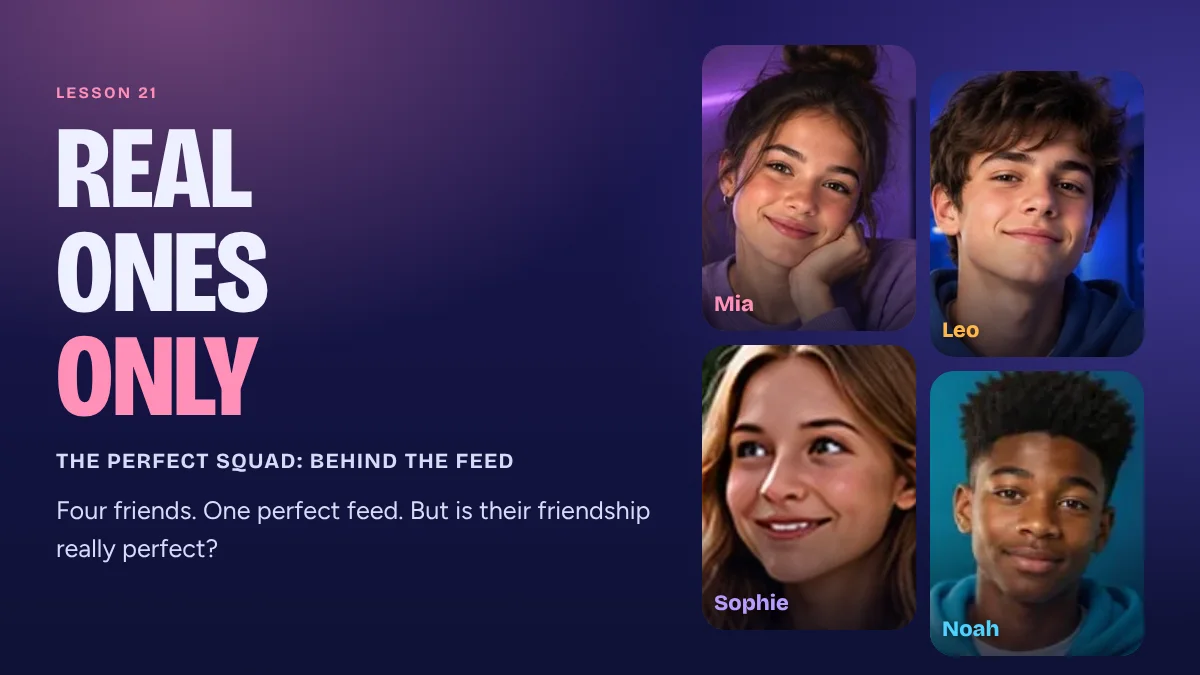
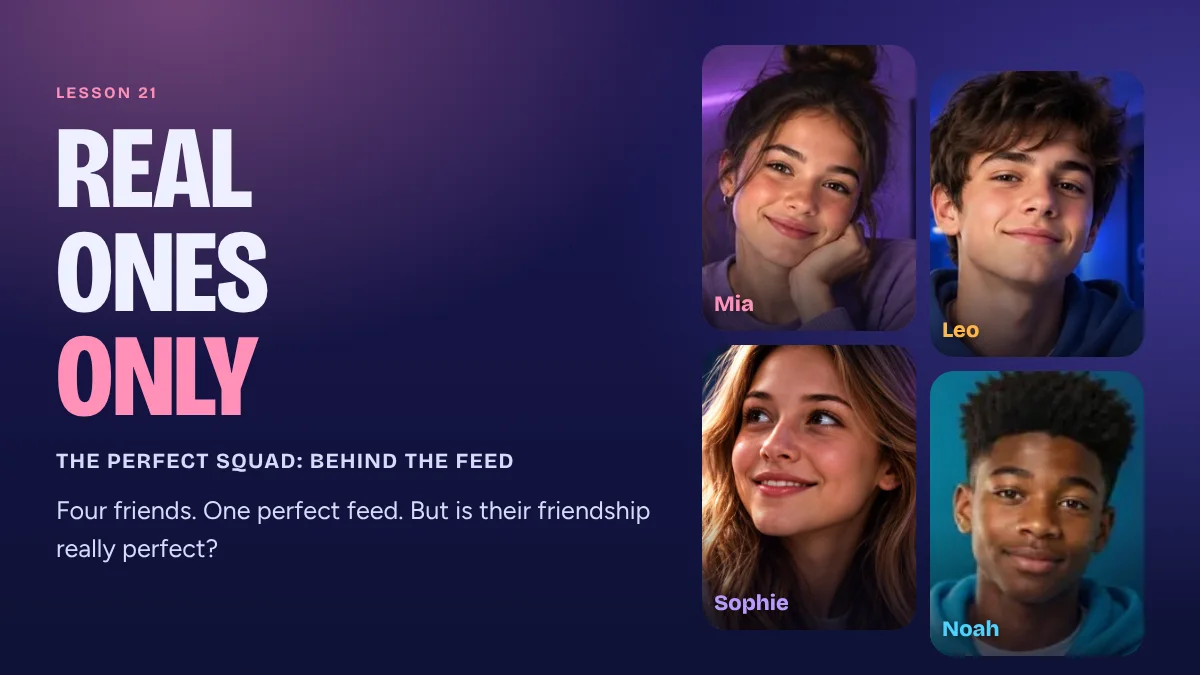
Add files via upload

Changed region(s): [[0.5858, 0.4978, 0.7708, 0.9333]]

diff --git a/lessons/lesson-21/README.md b/lessons/lesson-21/README.md
@@ -7,7 +7,7 @@ Unit 3 · 15 нових виразів про дружбу · без нової 
 ```
 lessons/lesson-21/
 ├── lesson-21.html        увесь урок (один файл, vanilla JS, без збірки)
-├── img/cast/             mia · mia-sad · leo · sophie · noah  (Мія й Лео — ті самі, що в уроках 15–20; Ной — з уроку 14)
+├── img/cast/             mia · mia-sad · leo · sophie · noah  (Мія й Лео — ті самі, що в уроках 15–20; Ной — з уроку 14; Софі — ваше фото)
 ├── img/cover.webp        обкладинка картки на платформі
 └── audio/                сюди можна покласти mia-voice-note.mp3 (необов'язково)
 ```
